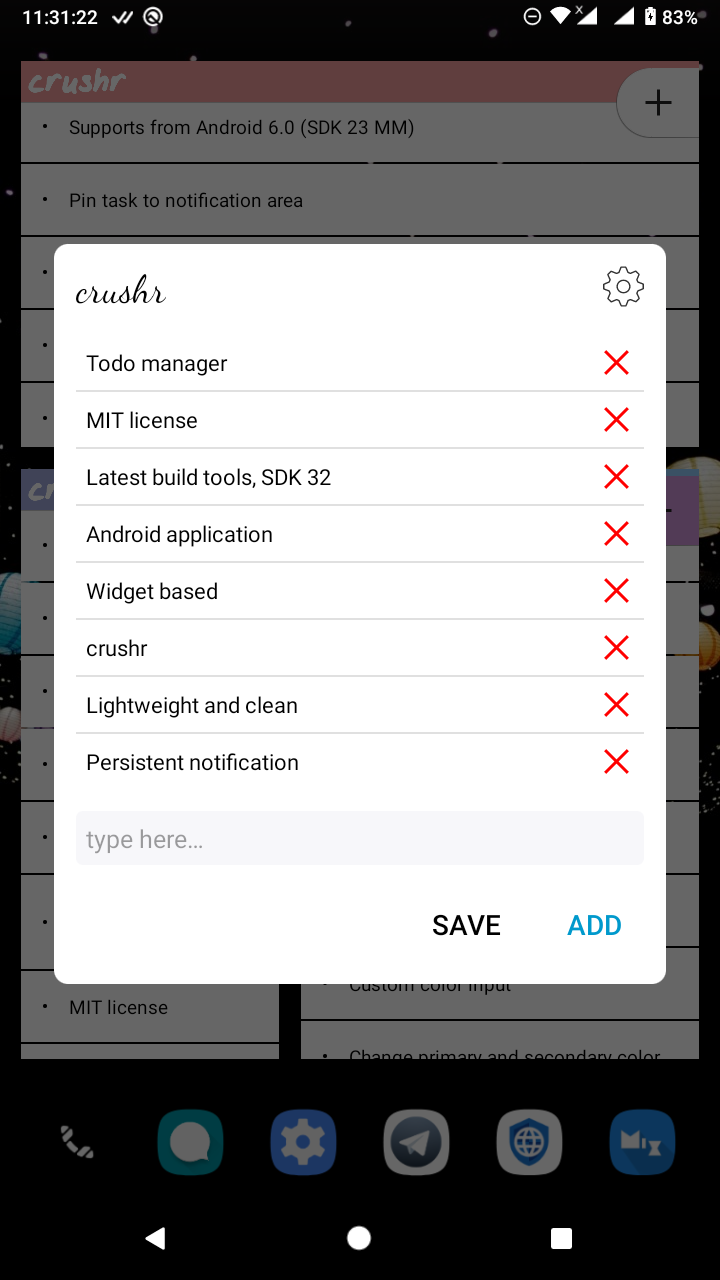
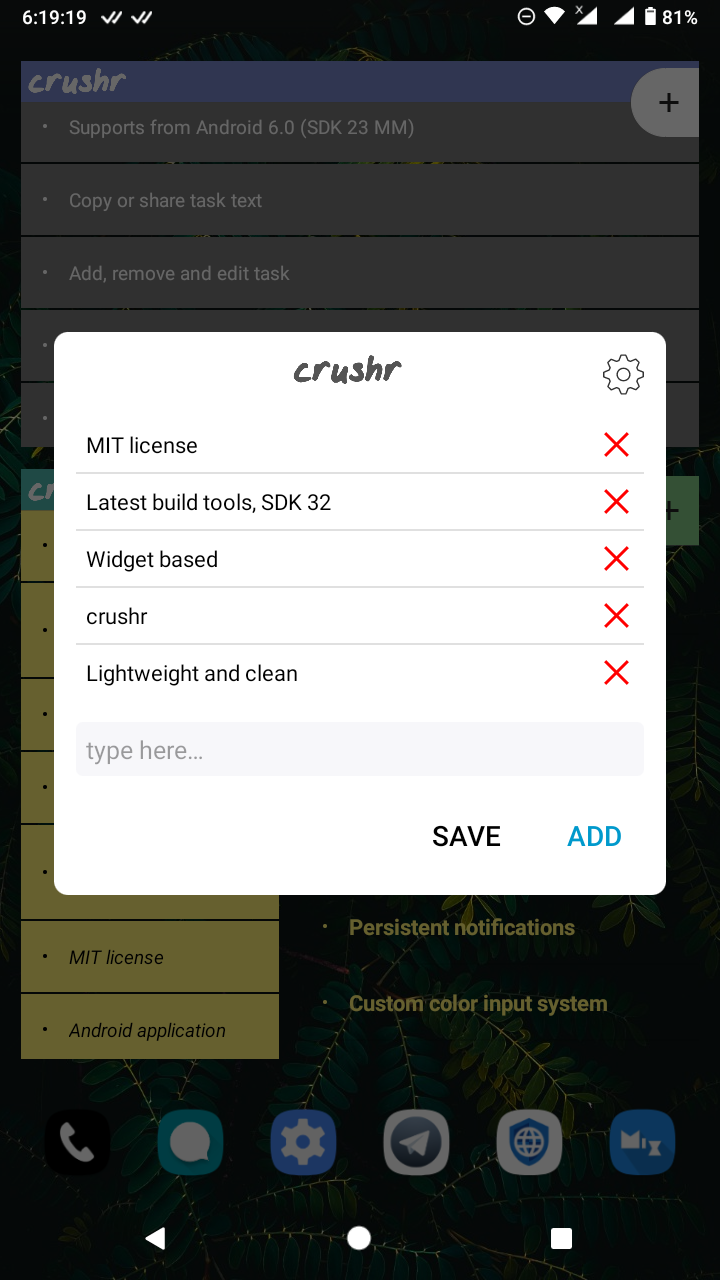
release v7

diff --git a/README.md b/README.md
@@ -8,7 +8,7 @@
 		<a href='https://github.com/iamrasel/crushr/blob/master/LICENSE.md'><img src='https://img.shields.io/badge/License-MIT-red.svg'></a>
 		<a href='https://github.com/iamrasel/crushr/actions'><img src='https://github.com/iamrasel/crushr/workflows/Build_Pushed/badge.svg?branch=master&event=push'></a>
         <br>
-        <img src='https://img.shields.io/badge/App-crushr-80d8ff.svg' alt='crushr'>
+        <img src='https://img.shields.io/badge/App-crushr-ff9e80.svg' alt='crushr'>
 		<a href='https://github.com/iamrasel/crushr/releases'><img src='https://img.shields.io/github/release/iamrasel/crushr.svg' ></a>
 		<img src='https://img.shields.io/github/downloads/iamrasel/crushr/total.svg' alt='Downloads'>
 		<img src='https://img.shields.io/badge/Maintained-yes-green.svg' alt='Maintained'>
@@ -20,13 +20,9 @@
 - [x] Add, remove and edit task
   - [x] Copy or share task text
   - [x] Quick tweet
-- [x] Pin task to notification area
+- [x] Pin tasks to notification area
   - [x] Control task from notification panel
-- [x] Change colors of different parts
-  - [x] Built-in material colors to select from
-  - [x] Custom color input
-- [x] Change font size
-- [x] Change font style
+- [x] Multiple customization option
 - [x] Reset configurations
 - [ ] See [TODO](#todo) section
 
@@ -34,12 +30,11 @@
 As per version 5 (14072022). Click on the image to enlarge it.
 
 <div align='center'>
-	<img src='fastlane/metadata/android/en-US/images/phoneScreenshots/1.png' width=100>
-	<img src='fastlane/metadata/android/en-US/images/phoneScreenshots/2.png' width=100>
-	<img src='fastlane/metadata/android/en-US/images/phoneScreenshots/3.png' width=100>
-	<img src='fastlane/metadata/android/en-US/images/phoneScreenshots/4.png' width=100>
-	<img src='fastlane/metadata/android/en-US/images/phoneScreenshots/5.png' width=100>
-	<img src='fastlane/metadata/android/en-US/images/phoneScreenshots/6.png' width=100>
+	<img src='fastlane/metadata/android/en-US/images/phoneScreenshots/1.png' width=120>
+	<img src='fastlane/metadata/android/en-US/images/phoneScreenshots/2.png' width=120>
+	<img src='fastlane/metadata/android/en-US/images/phoneScreenshots/3.png' width=120>
+	<img src='fastlane/metadata/android/en-US/images/phoneScreenshots/4.png' width=120>
+	<img src='fastlane/metadata/android/en-US/images/phoneScreenshots/5.png' width=120>
 </div>
 
 ## Download
@@ -58,9 +53,9 @@ There's another option to get this app- fork and build it. This project is very 
 - Known issues:
   - Tasks showing in random order
   - Hides notification texts after tapping on it (while showing multiple notification)
-  - Bugs, those are playing with me
+  - More unknown bugs
 - Features:
-  - IME action changing option
+  - Alarm (!)
   
 ## Contributing
 If you want to contribute to this project, I would suggest you to start from the [TODO](#todo) list first. Then you can do whatever comes up to your mind.
